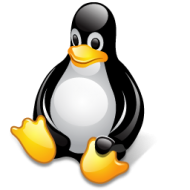
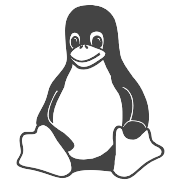
Se añade icono de linux a los stack

diff --git a/README.md b/README.md
@@ -58,6 +58,10 @@ Let's work together - [Laboral profile](https://github.com/sergiomunozge-dev)
       <img src="./Assets/JSicon.png" width="80px"/><br/>
       <sub><b>JS (and TS)</b></sub>
     </td>
+    <td align="center" width="20%">
+      <img src="./Assets/Linuxicon.png" width="80px"/><br/>
+      <sub><b>Linux</b></sub>
+    </td>
   </tr>
 </table>
 
